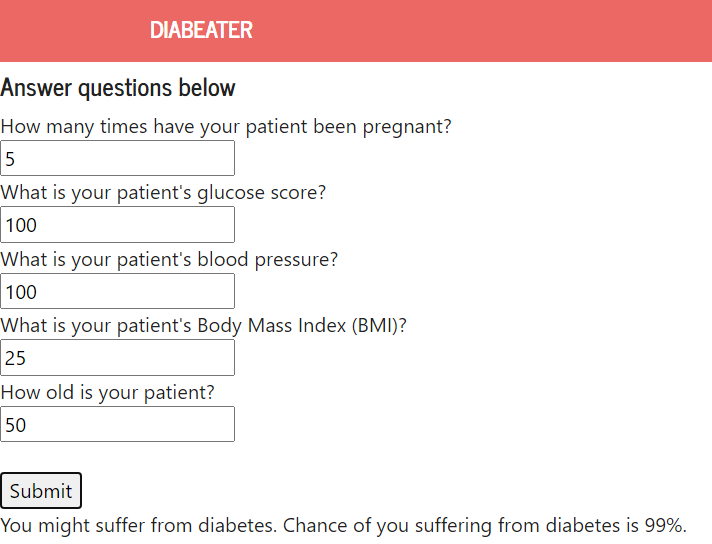
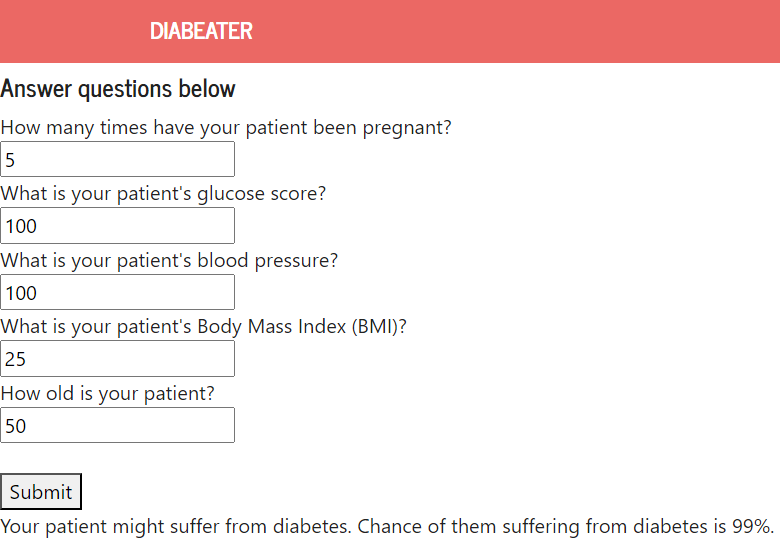
improvements

diff --git a/app_stage_2.py b/app_stage_2.py
@@ -91,14 +91,14 @@ def pred_client(n_clicks, pregnant, glucose, pressure, bmi, age):
             probability = int(probability * 100)
             binary = rf_mod.predict(df_test)
             if binary==1:
-                binary = "You might suffer from diabetes"
+                binary = "Your patient might suffer from diabetes"
             else:
-                binary = "You probably don't suffer from diabetes"
+                binary = "Your patient probably doesn't suffer from diabetes"
             if probability > 99:
                 probability = 99
             elif probability < 1:
                 probability = 1
-            return f'{binary}. Chance of you suffering from diabetes is {probability}%.'
+            return f'{binary}. Chance of them suffering from diabetes is {probability}%.'
         except ValueError:
             return 'Something went wrong. Make sure you filled the form correctly.'
 
